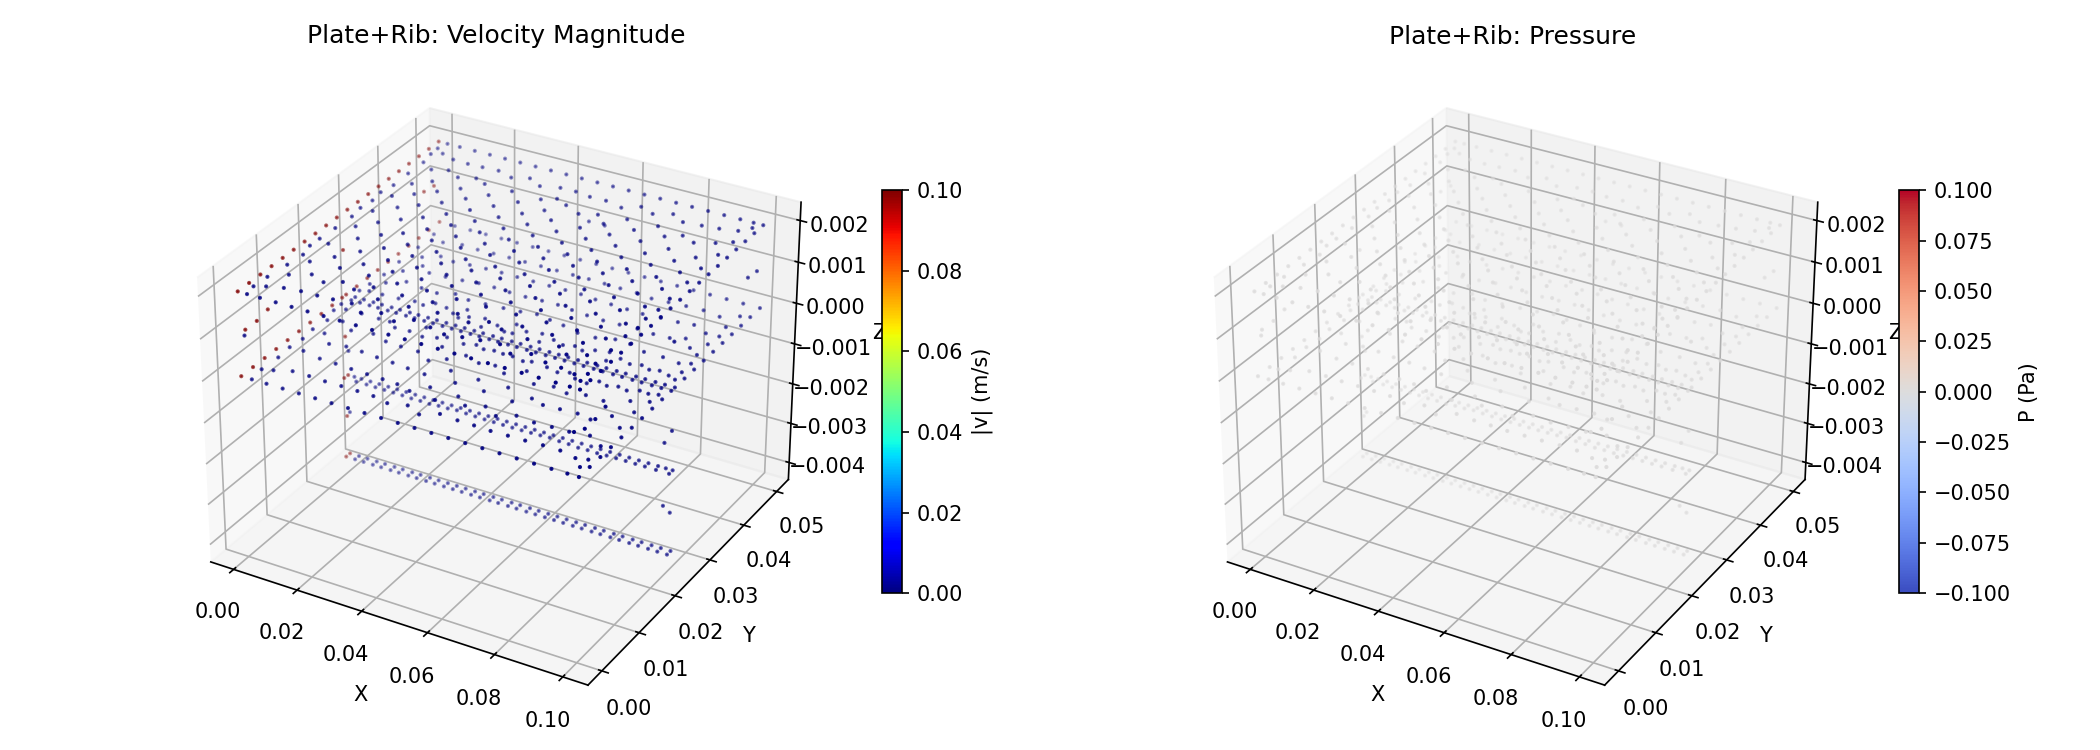
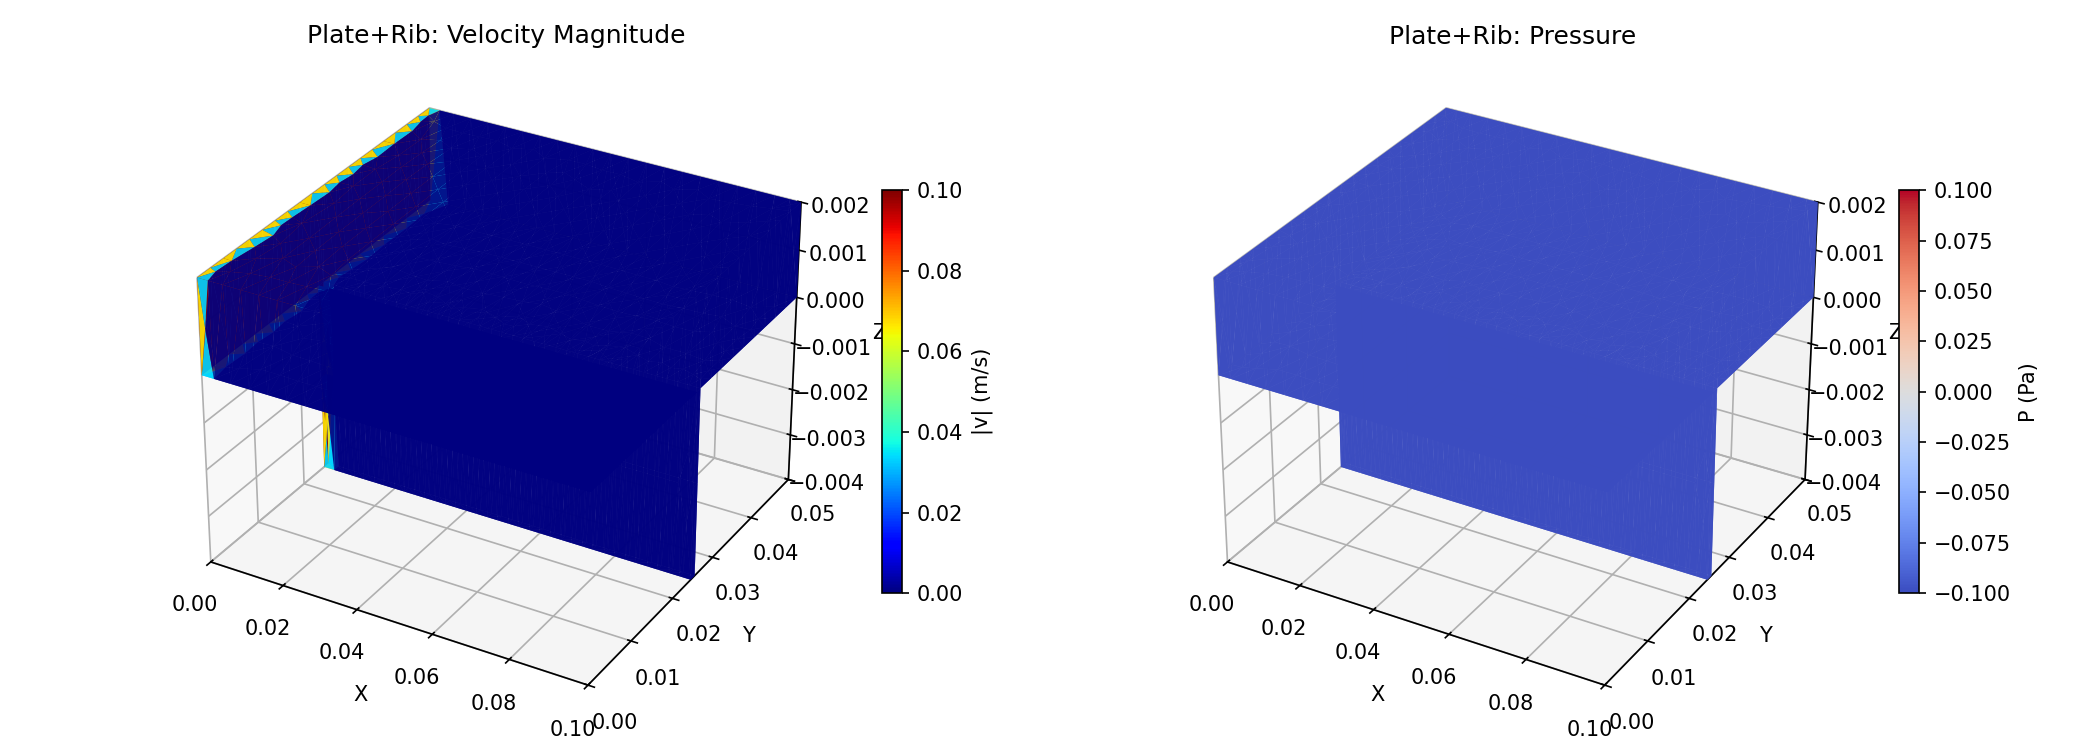
Moldflow gmsh cells 4-9 element-based visualization — 2026-03-19 23:34 KST

diff --git a/README.md b/README.md
@@ -6,7 +6,7 @@ This repo is used to share result images from Claude Code.
 
 ## Results
 
-### Moldflow Solver — Gmsh Test Cases (2026-03-19 23:26 KST)
+### Moldflow Solver — Gmsh Test Cases (Element-based Viz) (2026-03-19 23:34 KST)
 
 #### Cell 4: Boundary Classification (All 4 Geometries)
 ![cell4_boundary_classification](cell4_boundary_classification.png)
@@ -25,12 +25,3 @@ This repo is used to share result images from Claude Code.
 
 #### Cell 9: Cross-WLF on Plate with Rib
 ![cell9_cross_wlf](cell9_cross_wlf.png)
-
-#### Cell 10: Thermal Test on Stepped Plate
-![cell10_thermal_stepped](cell10_thermal_stepped.png)
-
----
-
-### PyG Trainer — Loss Plot (2026-03-19 23:26 KST)
-
-![loss_plot](loss_plot.png)
